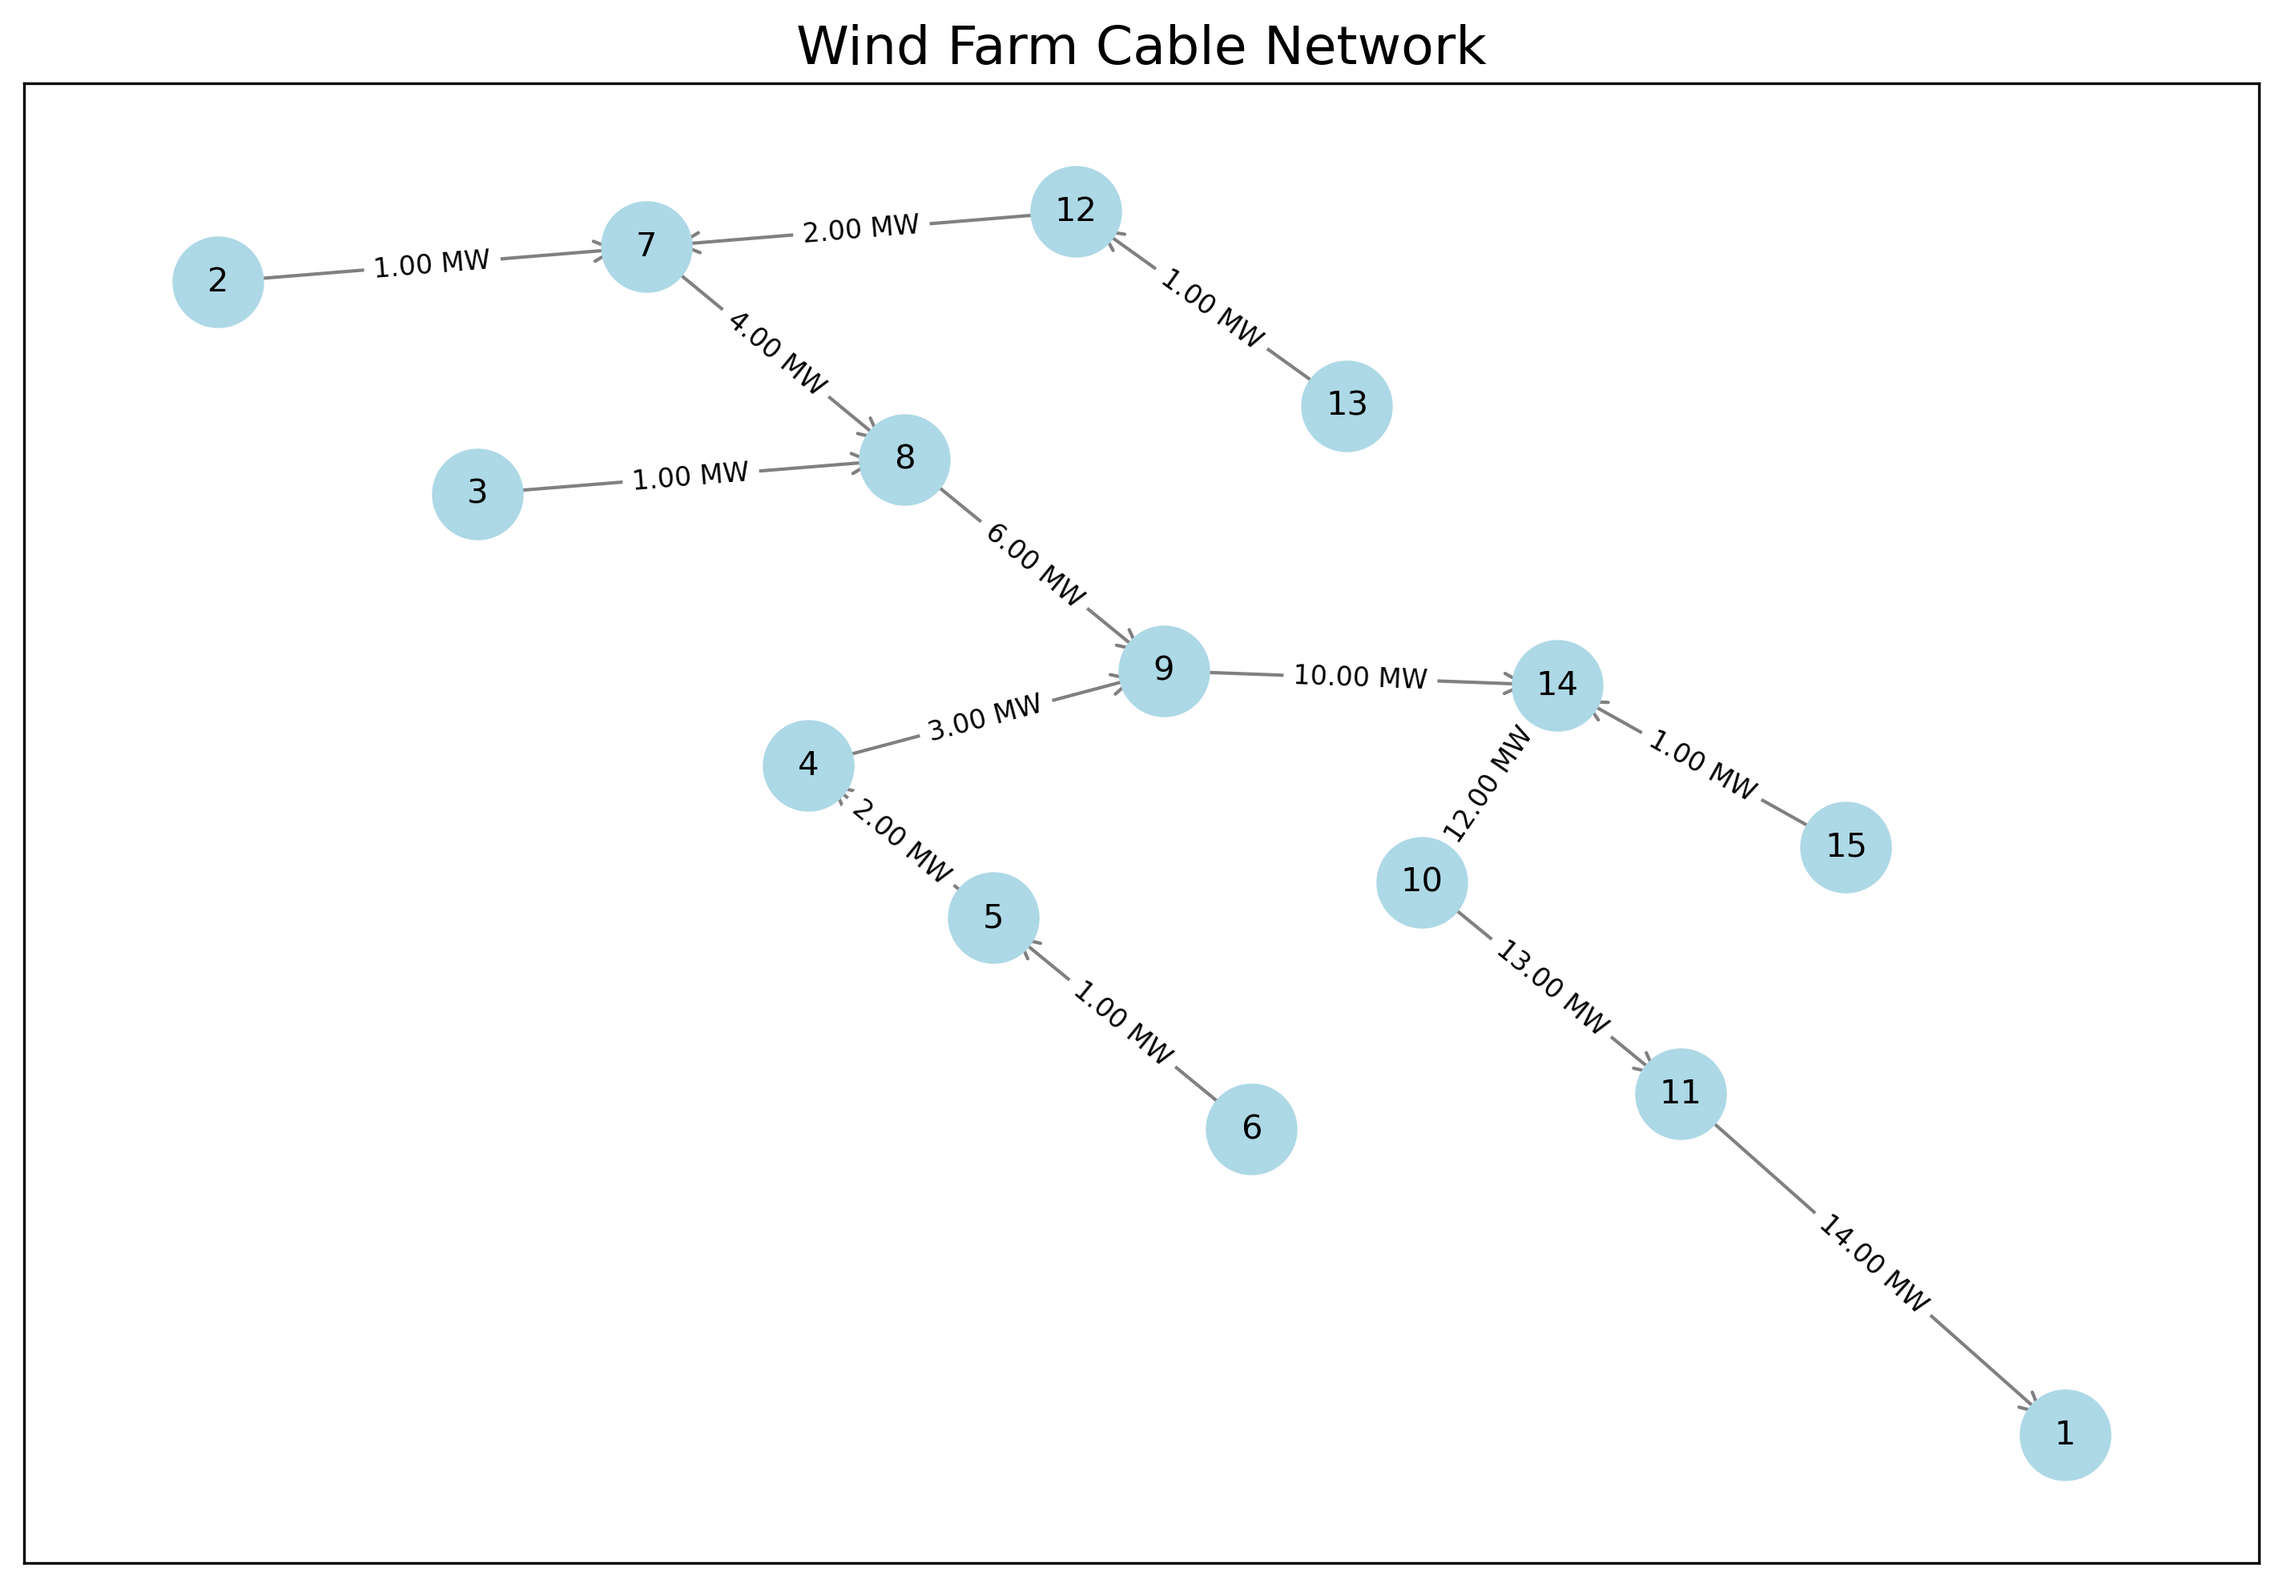
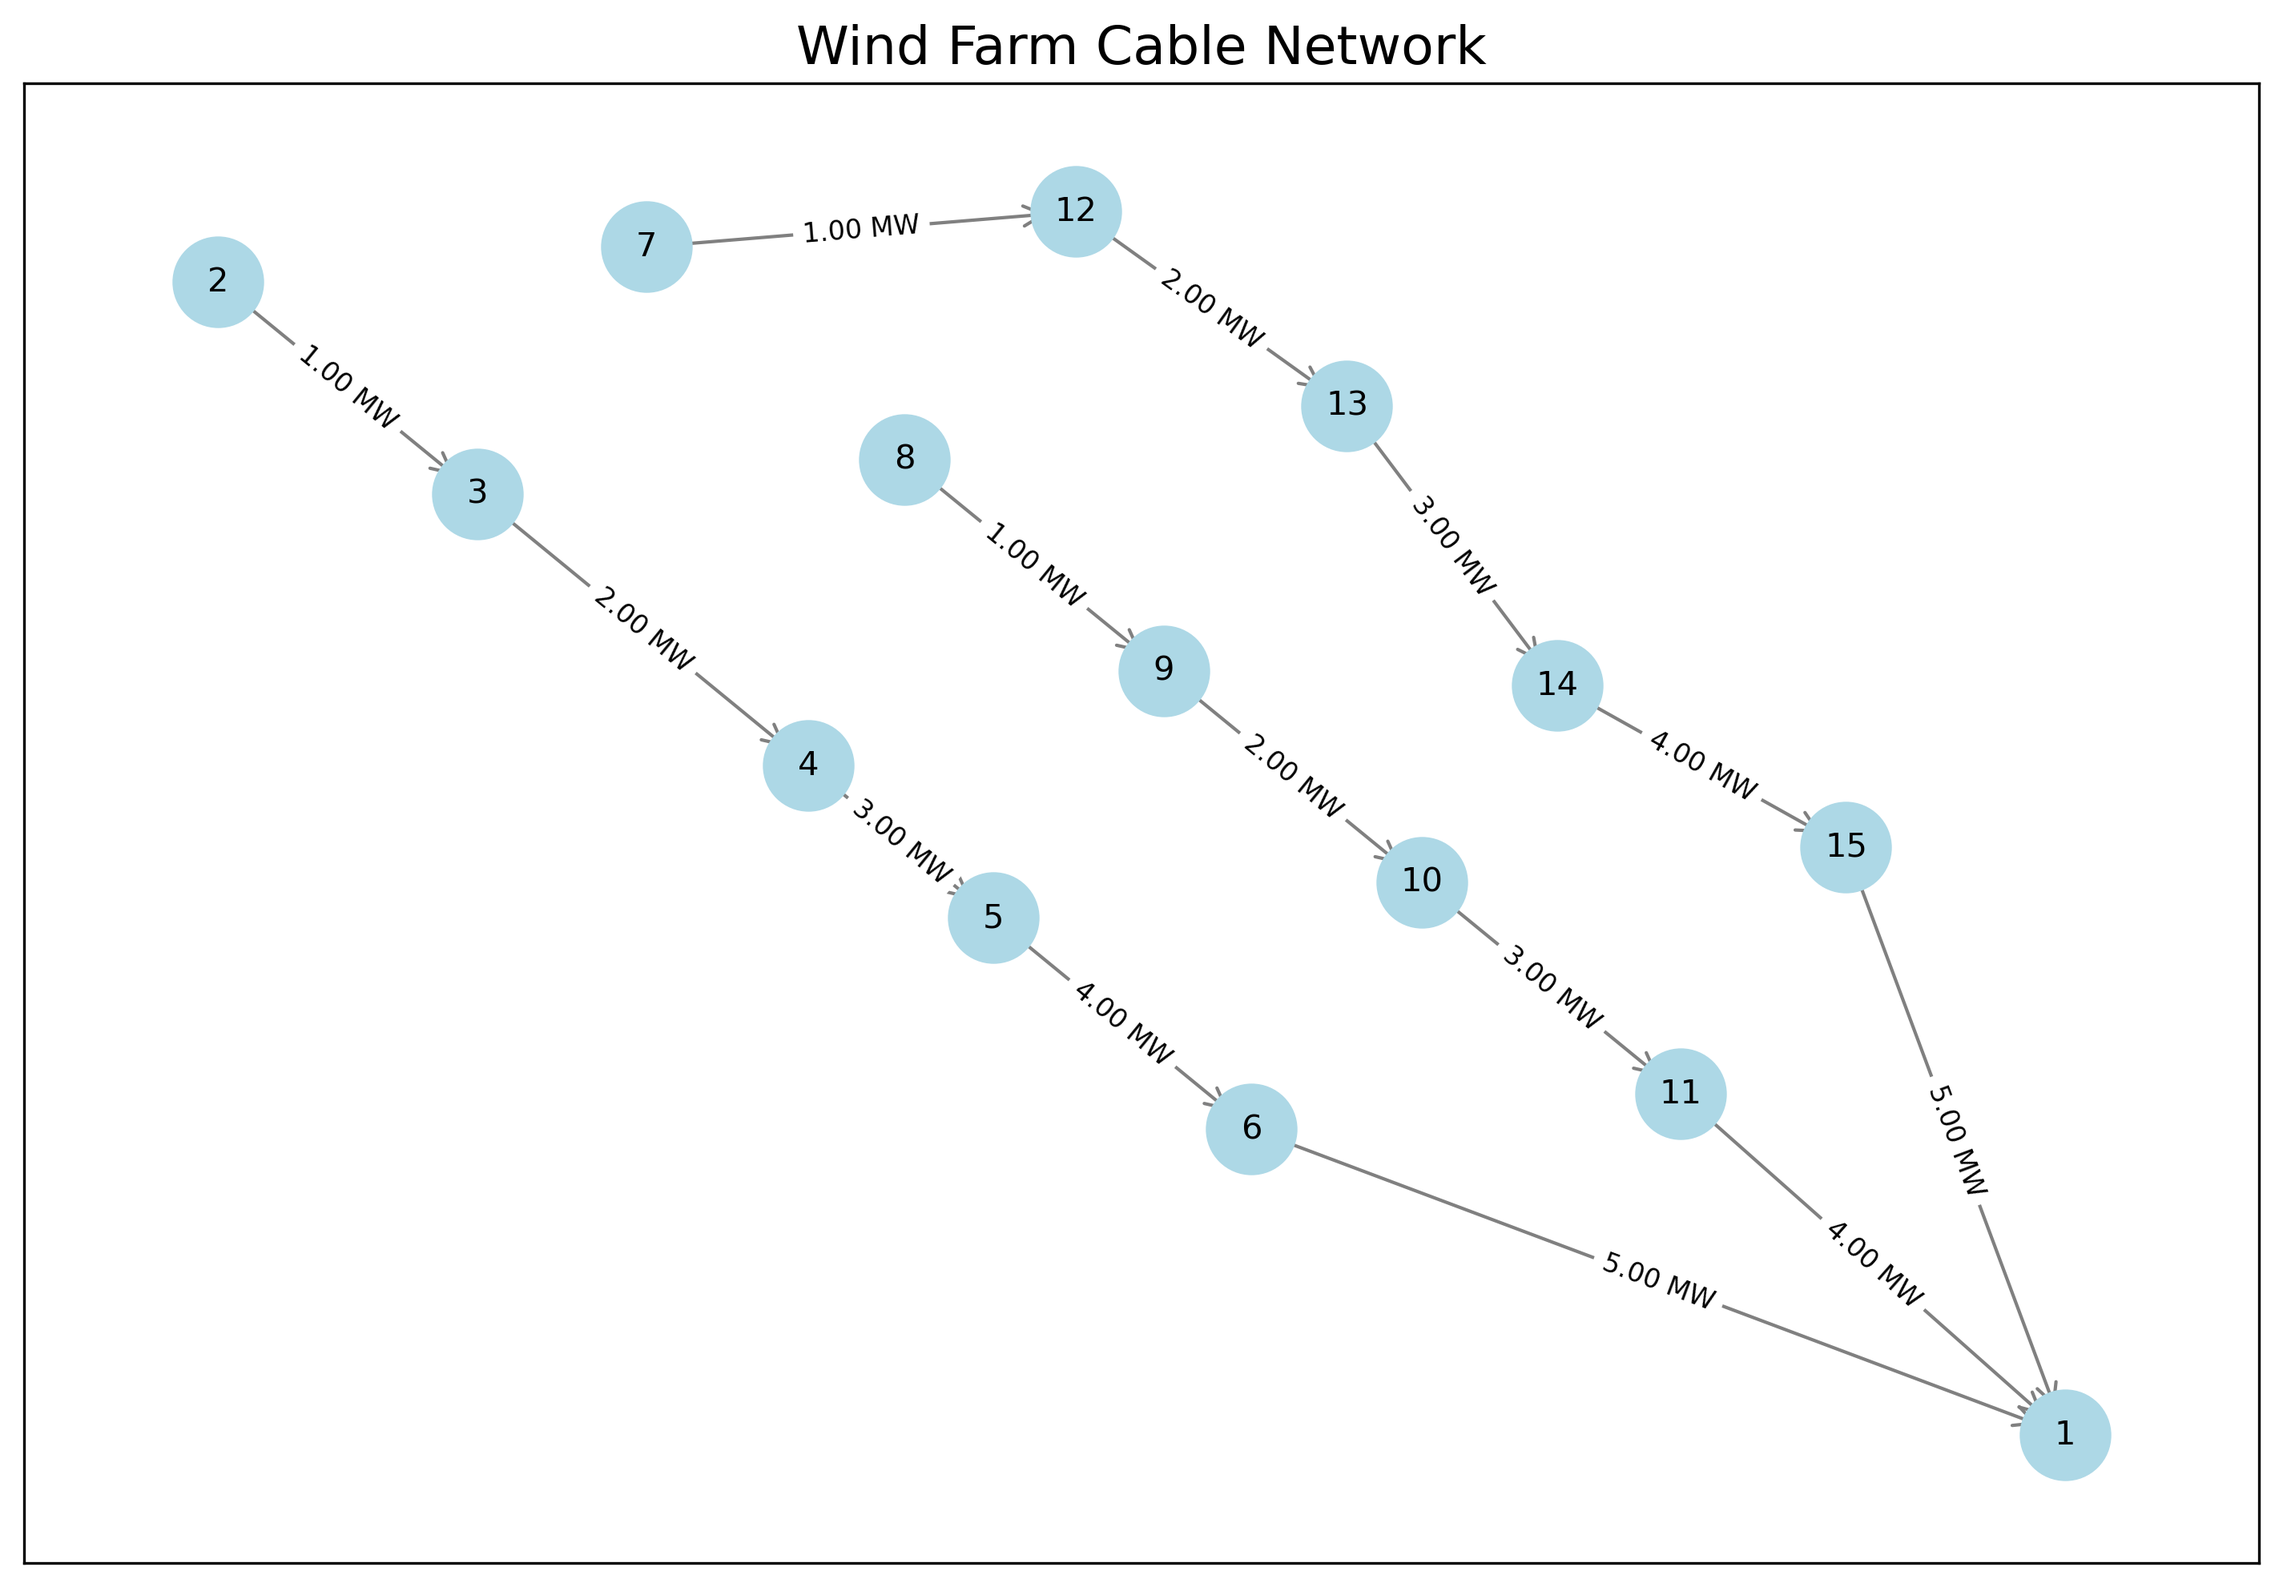
update q1

diff --git a/code_q1.py b/code_q1.py
@@ -25,7 +25,7 @@ production = {
     for _, row in data.iterrows()
 }
 
-k = 20  
+k = 5 # change here when needed with regard to the cable capacity
 u = 393  
 
 # Euclidean distance
@@ -84,6 +84,10 @@ model.addConstr(
     name="NoOutdegree_Substation"
 )
 
+model.addConstr(
+    quicksum(x[i, substation] for i in nodes if i != substation) <= 13, # change value to test different number of nodes
+    name="Max3Cables_Substation")
+
 # Solve the model
 model.optimize()
 
@@ -132,3 +136,5 @@ if model.status == GRB.OPTIMAL:
 
 else:
     print("No optimal solution found.")
+
+
